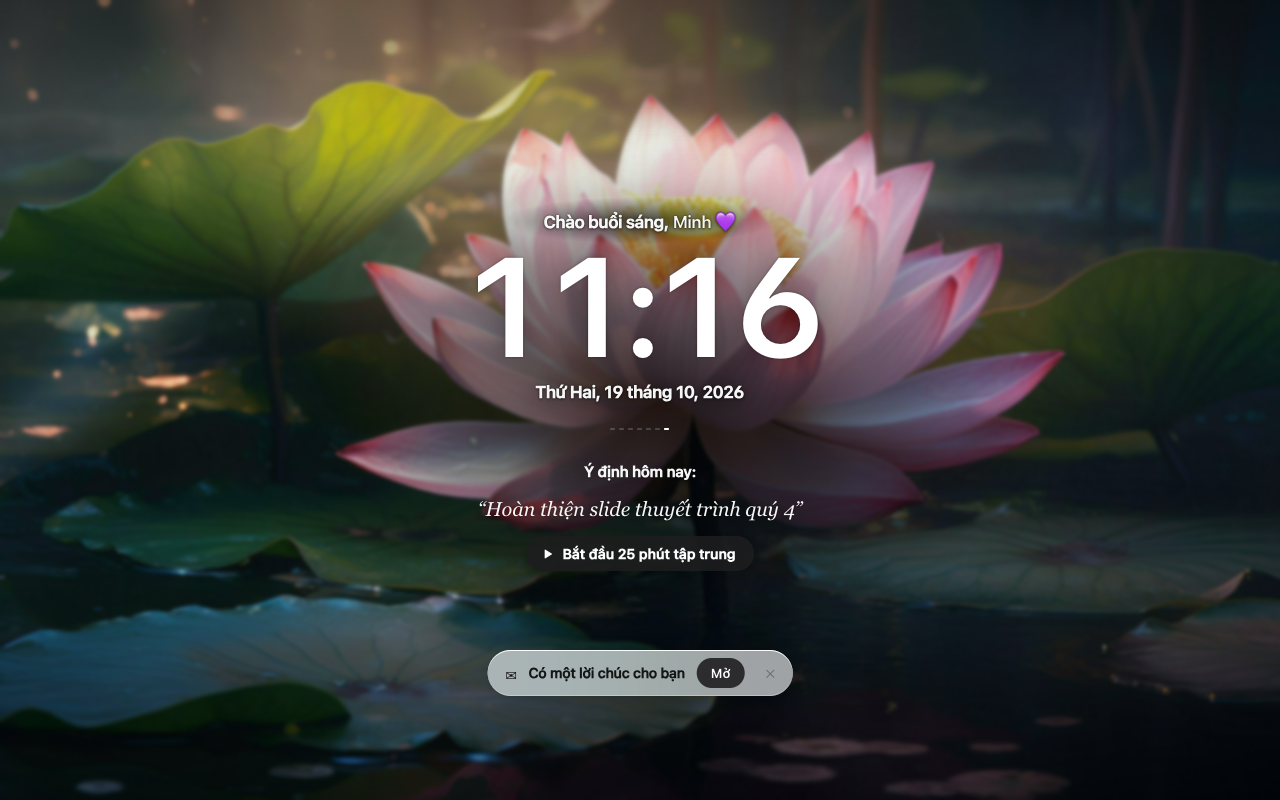
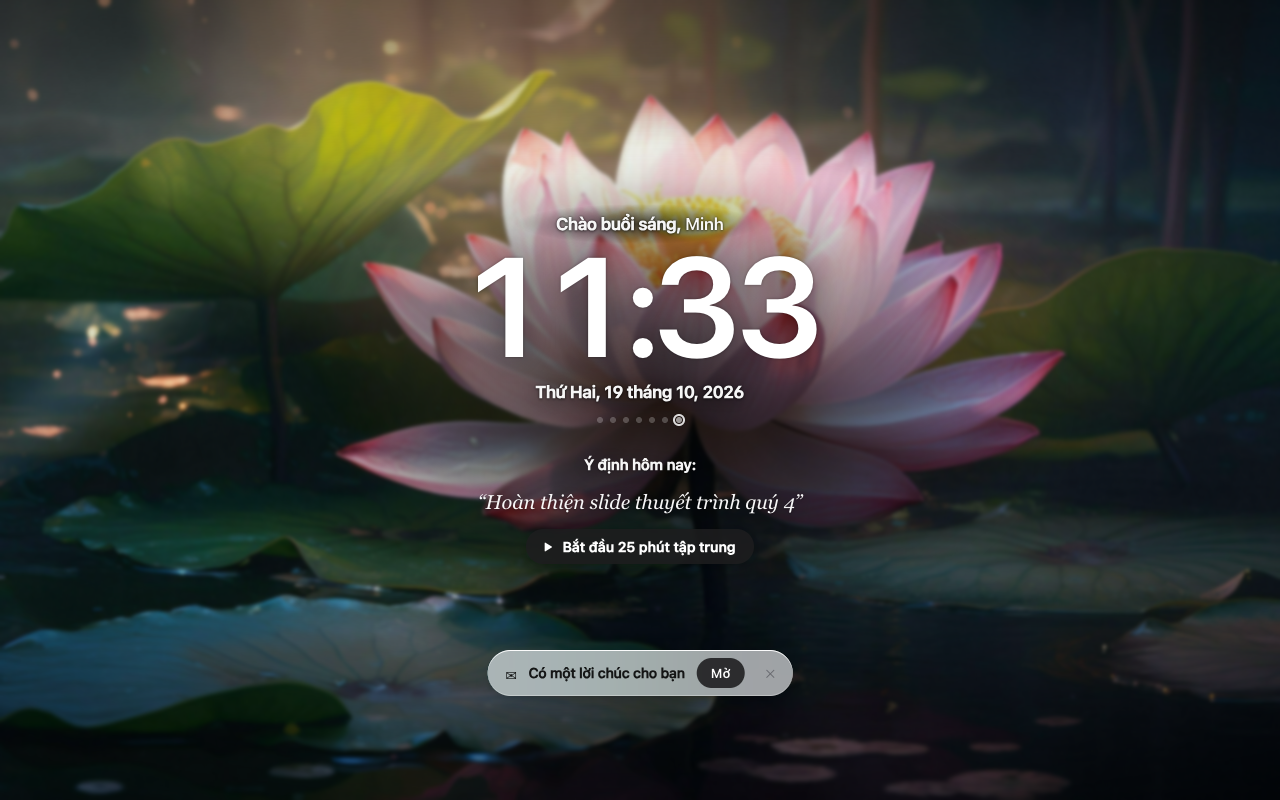
Home: one calm first impression
- First tab after install: only the Zen hint speaks, now "Rê chuột để
  hiện công cụ" for 5 s; the daily greeting waits for the next tab
  instead of stacking a second toast on top.
- The intention asks one question, written on the wallpaper in the
  Focus page's handwriting: no white glass field, no second prompt in
  the placeholder. A hairline underline, and the arrow appears only
  once there's text.
- The unlabelled 2 px dashes under the date (looked like a loading
  glitch) become seven dots for the week's intentions — kept, set,
  none, today ringed — with a summary on hover, hidden until there is
  at least one intention.
- No 💜 after the greeting.
- Top-right toolbar: tooltips like the sidebar's, and the Zen toggle is
  an ensō with aria-pressed instead of an eye.

Changed region(s): [[0.4062, 0.25, 0.6562, 0.4688], [0.375, 0.5625, 0.625, 0.7188], [0.4688, 0.5, 0.5312, 0.5312]]

diff --git a/liquid-glass.css b/liquid-glass.css
@@ -1322,7 +1322,7 @@ input[type="range"]::-webkit-slider-thumb:active { transform: scale(1.12); }
    both appearances (like the Lock Screen); the mind-map canvas stays dark. */
 .center-header,
 .dock-quote-section,
-.intention-container :is(.journal-label, .journal-prompt, .journal-entry),
+.intention-container :is(.journal-label, .journal-prompt, .journal-entry, .journal-input-row),
 #view-focus,
 .view-header,
 .mindmap-card {
@@ -1458,7 +1458,7 @@ html[data-custom-bg] body { background-size: cover !important; background-positi
 
 /* Light-toned wallpapers: dark text on the wallpaper, softer vignette */
 html[data-wp-tone="light"] :is(.center-header, .dock-quote-section, #view-focus, .view-header,
-  .intention-container :is(.journal-label, .journal-prompt, .journal-entry), .weather-widget-minimal, .zen-controls-bar) {
+  .intention-container :is(.journal-label, .journal-prompt, .journal-entry, .journal-input-row), .weather-widget-minimal, .zen-controls-bar) {
   --text: rgba(0, 0, 0, 0.86);
   --text-dim: rgba(30, 30, 40, 0.8);
   --text-muted: rgba(30, 30, 40, 0.62);
@@ -2028,6 +2028,80 @@ html.is-fullscreen .app-layout:has(#view-focus.active) .sidebar-left { display: 
   background: var(--field-bg-focus);
   box-shadow: var(--lg-edge), 0 0 0 4px rgba(255, 255, 255, 0.08), 0 18px 48px -10px rgba(0, 0, 0, 0.45);
 }
+
+/* One question, written on the wallpaper: while asking, the label steps aside (it stays the
+   input's accessible name) and the input itself asks, in the Focus page's handwriting */
+#journalIntention.is-asking #intentionLabel {
+  position: absolute; width: 1px; height: 1px; overflow: hidden; clip-path: inset(50%); white-space: nowrap;
+}
+.intention-container .journal-input-row {
+  position: relative;
+  width: min(520px, 80vw);
+  align-self: center;
+  padding: 0;
+  border-radius: 0;
+  background: none;
+  backdrop-filter: none;
+  -webkit-backdrop-filter: none;
+  box-shadow: none;
+}
+.intention-container .journal-input-row:focus-within { background: none; box-shadow: none; }
+.intention-container .journal-input-row input {
+  width: 100%;
+  padding: 4px 44px 8px;
+  border: none;
+  border-bottom: 1px solid color-mix(in srgb, var(--text) 22%, transparent);
+  border-radius: 0;
+  background: none;
+  text-align: center;
+  font-family: var(--font-serif);
+  font-style: italic;
+  font-size: clamp(20px, 2.2vw, 25px);
+  color: var(--text);
+  caret-color: var(--accent);
+  text-shadow: 0 1px 2px rgba(0, 0, 0, 0.35), 0 2px 18px rgba(0, 0, 0, 0.45);
+  transition: border-color 0.3s ease;
+}
+.intention-container .journal-input-row input::placeholder { color: color-mix(in srgb, var(--text) 82%, transparent); font-style: italic; }
+.intention-container .journal-input-row input:focus { border-bottom-color: color-mix(in srgb, var(--text) 50%, transparent); }
+.intention-container .journal-input-row input:focus::placeholder { color: color-mix(in srgb, var(--text) 62%, transparent); }
+html[data-wp-tone="light"] .intention-container .journal-input-row input { text-shadow: none; }
+/* the arrow only appears once there's something to save */
+.intention-container .intention-submit-btn {
+  position: absolute; right: 0; top: 50%;
+  width: 32px; height: 32px;
+  transform: translateY(-55%) scale(0.85);
+  opacity: 0; pointer-events: none;
+  transition: opacity 0.2s ease, transform 0.3s var(--ease-spring);
+}
+.intention-container .journal-input-row:has(input:not(:placeholder-shown)) .intention-submit-btn { opacity: 1; pointer-events: auto; transform: translateY(-55%) scale(1); }
+.intention-container .intention-submit-btn svg { width: 15px; height: 15px; }
+
+/* Seven dots for the week's intentions */
+.week-dots { display: flex; align-items: center; justify-content: center; gap: 7px; margin-top: 14px; height: auto; }
+.week-dots[hidden] { display: none; }
+.week-dot { width: 6px; height: 6px; border-radius: 50%; background: color-mix(in srgb, var(--on-wallpaper) 22%, transparent); }
+.week-dot.set { background: color-mix(in srgb, var(--on-wallpaper) 55%, transparent); }
+.week-dot.kept { background: var(--on-wallpaper); }
+.week-dot.today { box-shadow: 0 0 0 2px color-mix(in srgb, var(--on-wallpaper) 85%, transparent); background-clip: content-box; padding: 1px; width: 8px; height: 8px; }
+.week-dot.today:not(.set):not(.kept) { background-color: transparent; }
+
+/* Toolbar tooltips, like the sidebar's, below the buttons */
+.zen-control-btn { position: relative; }
+.ctl-tip {
+  position: absolute; top: calc(100% + 12px); left: 50%;
+  padding: 5px 10px; border-radius: 8px;
+  background: var(--menu-bg); color: var(--text);
+  box-shadow: 0 6px 18px rgba(0, 0, 0, 0.22), 0 0 0 0.5px rgba(0, 0, 0, 0.08);
+  font-size: 12px; font-weight: 560; white-space: nowrap; text-shadow: none;
+  opacity: 0; transform: translate(-50%, -4px); pointer-events: none;
+  transition: opacity 0.15s ease, transform 0.2s var(--ease-spring);
+  z-index: 30;
+}
+.zen-control-btn:last-child .ctl-tip { left: auto; right: 0; transform: translate(0, -4px); }
+.zen-control-btn:hover .ctl-tip, .zen-control-btn:focus-visible .ctl-tip { opacity: 1; transform: translate(-50%, 0); transition-delay: 0.35s; }
+.zen-control-btn:last-child:hover .ctl-tip, .zen-control-btn:last-child:focus-visible .ctl-tip { transform: translate(0, 0); }
+html[data-wp-tone="light"] .zen-controls-bar .ctl-tip { color: rgba(0, 0, 0, 0.86); background: #fff; }
 
 /* ---------- Setup states: say what's missing and offer the one fix ---------- */
 .ai-status.offline { color: var(--text-muted); }

diff --git a/index.html b/index.html
@@ -117,36 +117,37 @@
           <div class="header-right">
             <!-- Zen Control Buttons -->
             <div class="zen-controls-bar">
-              <button id="toggleLeftBtn" class="zen-control-btn" aria-label="Lá số Tử Vi" title="Lá số Tử Vi (Trái)">
+              <button id="toggleLeftBtn" class="zen-control-btn" aria-label="Lá số Tử Vi">
                 <svg xmlns="http://www.w3.org/2000/svg" fill="none" viewBox="0 0 24 24" stroke="currentColor" stroke-width="1.7" stroke-linecap="round" stroke-linejoin="round" aria-hidden="true"><circle cx="12" cy="12" r="9"/><path d="M12 3a4.5 4.5 0 0 1 0 9 4.5 4.5 0 0 0 0 9"/><circle cx="12" cy="7.5" r="0.9" fill="currentColor"/><circle cx="12" cy="16.5" r="0.9"/></svg>
+                <span class="ctl-tip">Lá số Tử Vi</span>
               </button>
-              <button id="toggleTasksBtn" class="zen-control-btn" aria-label="Nhiệm vụ hôm nay" title="Nhiệm vụ hôm nay">
+              <button id="toggleTasksBtn" class="zen-control-btn" aria-label="Nhiệm vụ hôm nay">
                 <svg xmlns="http://www.w3.org/2000/svg" fill="none" viewBox="0 0 24 24" stroke="currentColor" stroke-width="1.7" stroke-linecap="round" stroke-linejoin="round" aria-hidden="true"><path d="M9 6h11M9 12h11M9 18h11"/><path d="M3.5 6l1 1 2-2M3.5 12l1 1 2-2M3.5 18l1 1 2-2"/></svg>
+                <span class="ctl-tip">Nhiệm vụ hôm nay</span>
               </button>
-              <button id="toggleRightBtn" class="zen-control-btn" aria-label="Tiện ích" title="Tiện ích">
+              <button id="toggleRightBtn" class="zen-control-btn" aria-label="Tiện ích">
                 <svg xmlns="http://www.w3.org/2000/svg" fill="none" viewBox="0 0 24 24" stroke="currentColor" stroke-width="1.7" stroke-linecap="round" stroke-linejoin="round" aria-hidden="true"><rect x="4" y="4" width="6.5" height="6.5" rx="1.8"/><rect x="13.5" y="4" width="6.5" height="6.5" rx="1.8"/><rect x="4" y="13.5" width="6.5" height="6.5" rx="1.8"/><rect x="13.5" y="13.5" width="6.5" height="6.5" rx="1.8"/></svg>
+                <span class="ctl-tip">Tiện ích</span>
               </button>
-              <button id="toggleZenBtn" class="zen-control-btn main-zen-toggle" aria-label="Chế độ tối giản" title="Chế độ tối giản (Zen)">
-                <svg xmlns="http://www.w3.org/2000/svg" fill="none" viewBox="0 0 24 24" stroke="currentColor">
-                  <path stroke-linecap="round" stroke-linejoin="round" stroke-width="1.5" d="M15 12a3 3 0 11-6 0 3 3 0 016 0z" />
-                  <path stroke-linecap="round" stroke-linejoin="round" stroke-width="1.5" d="M2.458 12C3.732 7.943 7.523 5 12 5c4.478 0 8.268 2.943 9.542 7-1.274 4.057-5.064 7-9.542 7-4.477 0-8.268-2.943-9.542-7z" />
-                </svg>
+              <button id="toggleZenBtn" class="zen-control-btn main-zen-toggle" aria-pressed="false" aria-label="Chế độ tối giản">
+                <svg viewBox="0 0 24 24" fill="none" stroke="currentColor" stroke-width="1.9" stroke-linecap="round" aria-hidden="true"><path d="M17.6 5.4A8 8 0 1 0 20 11.2"/><path d="M20 11.2c.1-1 .1-1.9-.2-2.8" opacity=".55"/></svg>
+                <span class="ctl-tip">Chế độ tối giản</span>
               </button>
             </div>
           </div>
         </div>
 
-        <div class="zen-hint" id="zenHint" role="status" hidden>Di chuột để hiện công cụ · nút ở góc phải trên để tắt chế độ tối giản</div>
+        <div class="zen-hint" id="zenHint" role="status" hidden>Rê chuột để hiện công cụ</div>
 
         <div class="main-dashboard-new">
           <!-- CENTER VIEWPORT: Main Focus -->
           <div class="main-focus-center">
             <!-- Greetings and Time -->
             <header class="center-header">
-              <h2 class="greeting" id="greeting">Chào buổi sáng, <span id="userName" class="name-editable">bạn</span> 💜</h2>
+              <h2 class="greeting" id="greeting">Chào buổi sáng, <span id="userName" class="name-editable">bạn</span></h2>
               <div id="clock" class="clock">00:00</div>
               <div id="date" class="date"></div>
-              <div id="sparkline" class="sparkline"></div>
+              <div id="sparkline" class="sparkline week-dots" role="img" hidden></div>
 
             </header>
 
@@ -162,11 +163,11 @@
                 </div>
               </div>
 
-              <div id="journalIntention" class="journal-section">
+              <div id="journalIntention" class="journal-section is-asking">
                 <p class="journal-label" id="intentionLabel">Điều gì quan trọng nhất hôm nay?</p>
                 <div class="journal-input-row" id="journalInputRow">
-                  <input type="text" id="journalInput" placeholder="Hôm nay bạn muốn tập trung vào điều gì?" autocomplete="off">
-                  <button class="intention-submit-btn" id="intentionSubmitBtn">
+                  <input type="text" id="journalInput" placeholder="Điều gì quan trọng nhất hôm nay?" aria-labelledby="intentionLabel" autocomplete="off">
+                  <button class="intention-submit-btn" id="intentionSubmitBtn" aria-label="Lưu ý định">
                     <svg xmlns="http://www.w3.org/2000/svg" fill="none" viewBox="0 0 24 24" stroke="currentColor">
                       <path stroke-linecap="round" stroke-linejoin="round" stroke-width="2" d="M14 5l7 7m0 0l-7 7m7-7H3" />
                     </svg>

diff --git a/script.js b/script.js
@@ -170,7 +170,7 @@ function updateGreeting() {
   nameEl.id = 'userName';
   nameEl.className = 'name-editable';
   nameEl.textContent = currentUserName;
-  greetingEl.replaceChildren(`${g}, `, nameEl, ' 💜');
+  greetingEl.replaceChildren(`${g}, `, nameEl);
   attachNameEdit();
 }
 
@@ -277,12 +277,14 @@ function loadJournal() {
         journalTodayEntry.textContent = `\u201C${todayEntry.entry}\u201D`;
       }
       if (intentionLabel) intentionLabel.textContent = 'Ý định hôm nay:';
+      if (journalIntention) journalIntention.classList.remove('is-asking');
       if (startFocusFromIntention) startFocusFromIntention.hidden = false;
     } else {
       if (jInputRow) jInputRow.style.display = '';
       if (journalTodayEntry) journalTodayEntry.style.display = 'none';
       if (startFocusFromIntention) startFocusFromIntention.hidden = true;
       if (intentionLabel) intentionLabel.textContent = 'Điều gì quan trọng nhất hôm nay?';
+      if (journalIntention) journalIntention.classList.add('is-asking');
       if ((!yesterdayEntry || yesterdayEntry.honored !== null) && journalInput) journalInput.focus();
     }
 
@@ -313,6 +315,7 @@ function saveJournalEntry(text) {
         journalTodayEntry.textContent = `\u201C${text.trim()}\u201D`;
       }
       if (intentionLabel) intentionLabel.textContent = 'Ý định hôm nay:';
+      if (journalIntention) journalIntention.classList.remove('is-asking');
       if (startFocusFromIntention) {
         startFocusFromIntention.hidden = false;
         // Pressing Enter again starts the session
@@ -351,29 +354,31 @@ if (startFocusFromIntention) {
   });
 }
 
+// Seven dots under the date: the last week's intentions (kept · set · none), today ringed.
+// Hidden until there is at least one intention to show, so a new tab doesn't open on blanks.
 function renderSparkline(entries) {
   const container = document.getElementById('sparkline');
   if (!container) return;
+  const today = getDateStr(new Date());
   const days = [];
-  const now = new Date();
   for (let i = 6; i >= 0; i--) {
-    const d = new Date(now); d.setDate(d.getDate() - i);
+    const d = new Date(); d.setDate(d.getDate() - i);
     days.push(getDateStr(d));
   }
-
-  container.innerHTML = days.map(d => {
-    const entry = entries.find(e => e.date === d);
-    const isToday = d === getDateStr(new Date());
-    let level = 0;
-    if (entry) {
-      if (entry.honored === true) level = 2;
-      else if (entry.honored === false) level = 1;
-      else if (entry.honored === null && entry.entry) level = 1;
-    }
-    const height = level === 0 ? 2 : level === 1 ? 8 : 14;
-    const cls = isToday ? 'sparkline-bar today' : (level > 0 ? 'sparkline-bar filled' : 'sparkline-bar empty');
-    return `<div class="${cls}" style="height:${height}px" title="${d}"></div>`;
-  }).join('');
+  const byDay = days.map(d => entries.find(e => e.date === d && e.entry));
+  const kept = byDay.filter(e => e && e.honored === true).length;
+  const set = byDay.filter(Boolean).length;
+  container.hidden = set === 0;
+  if (!set) { container.replaceChildren(); return; }
+  container.replaceChildren(...days.map((d, i) => {
+    const e = byDay[i];
+    const dot = document.createElement('span');
+    dot.className = 'week-dot' + (e ? (e.honored === true ? ' kept' : ' set') : '') + (d === today ? ' today' : '');
+    return dot;
+  }));
+  const label = `Ý định 7 ngày qua: đặt ${set}, giữ được ${kept}`;
+  container.title = label;
+  container.setAttribute('aria-label', label);
 }
 
 loadJournal();
@@ -4230,7 +4235,7 @@ window.addEventListener('keydown', (e) => {
       setTimeout(() => { hint.hidden = true; }, 400);
       chrome.storage.local.set({ zenHintSeen: true });
     };
-    setTimeout(dismiss, 7000);
+    setTimeout(dismiss, 5000);
     toggleZenBtn.addEventListener('click', dismiss, { once: true });
   }
 
@@ -4239,6 +4244,7 @@ window.addEventListener('keydown', (e) => {
     if (data.zenActive ?? true) {
       appLayout.classList.add('zen-active');
       toggleZenBtn.classList.add('active');
+      toggleZenBtn.setAttribute('aria-pressed', 'true');
       markZenIdle();
       if (!data.zenHintSeen) showZenHint();
     } else {
@@ -4265,6 +4271,7 @@ window.addEventListener('keydown', (e) => {
     if (appLayout.classList.contains('zen-active')) {
       appLayout.classList.remove('zen-active', 'zen-idle');
       toggleZenBtn.classList.remove('active');
+      toggleZenBtn.setAttribute('aria-pressed', 'false');
       chrome.storage.local.set({ zenActive: false });
     }
 
@@ -4338,6 +4345,7 @@ window.addEventListener('keydown', (e) => {
   toggleZenBtn.addEventListener('click', () => {
     const isZen = appLayout.classList.toggle('zen-active');
     toggleZenBtn.classList.toggle('active', isZen);
+    toggleZenBtn.setAttribute('aria-pressed', String(isZen));
     chrome.storage.local.set({ zenActive: isZen });
     wakeZenChrome();
 

diff --git a/greet.js b/greet.js
@@ -142,6 +142,9 @@
     if (greetEnabled === false) return;
     const state = greetState || { date: null, milestones: [] };
     if (state.date === today) return; // once a day
+    // First tab after install: the Zen hint speaks first; the greeting waits for the next tab
+    const { zenHintSeen } = await get('local', 'zenHintSeen');
+    if (!zenHintSeen) return;
     // Don't speak over a running focus session
     if (document.documentElement.classList.contains('timer-is-running')) return;
 
